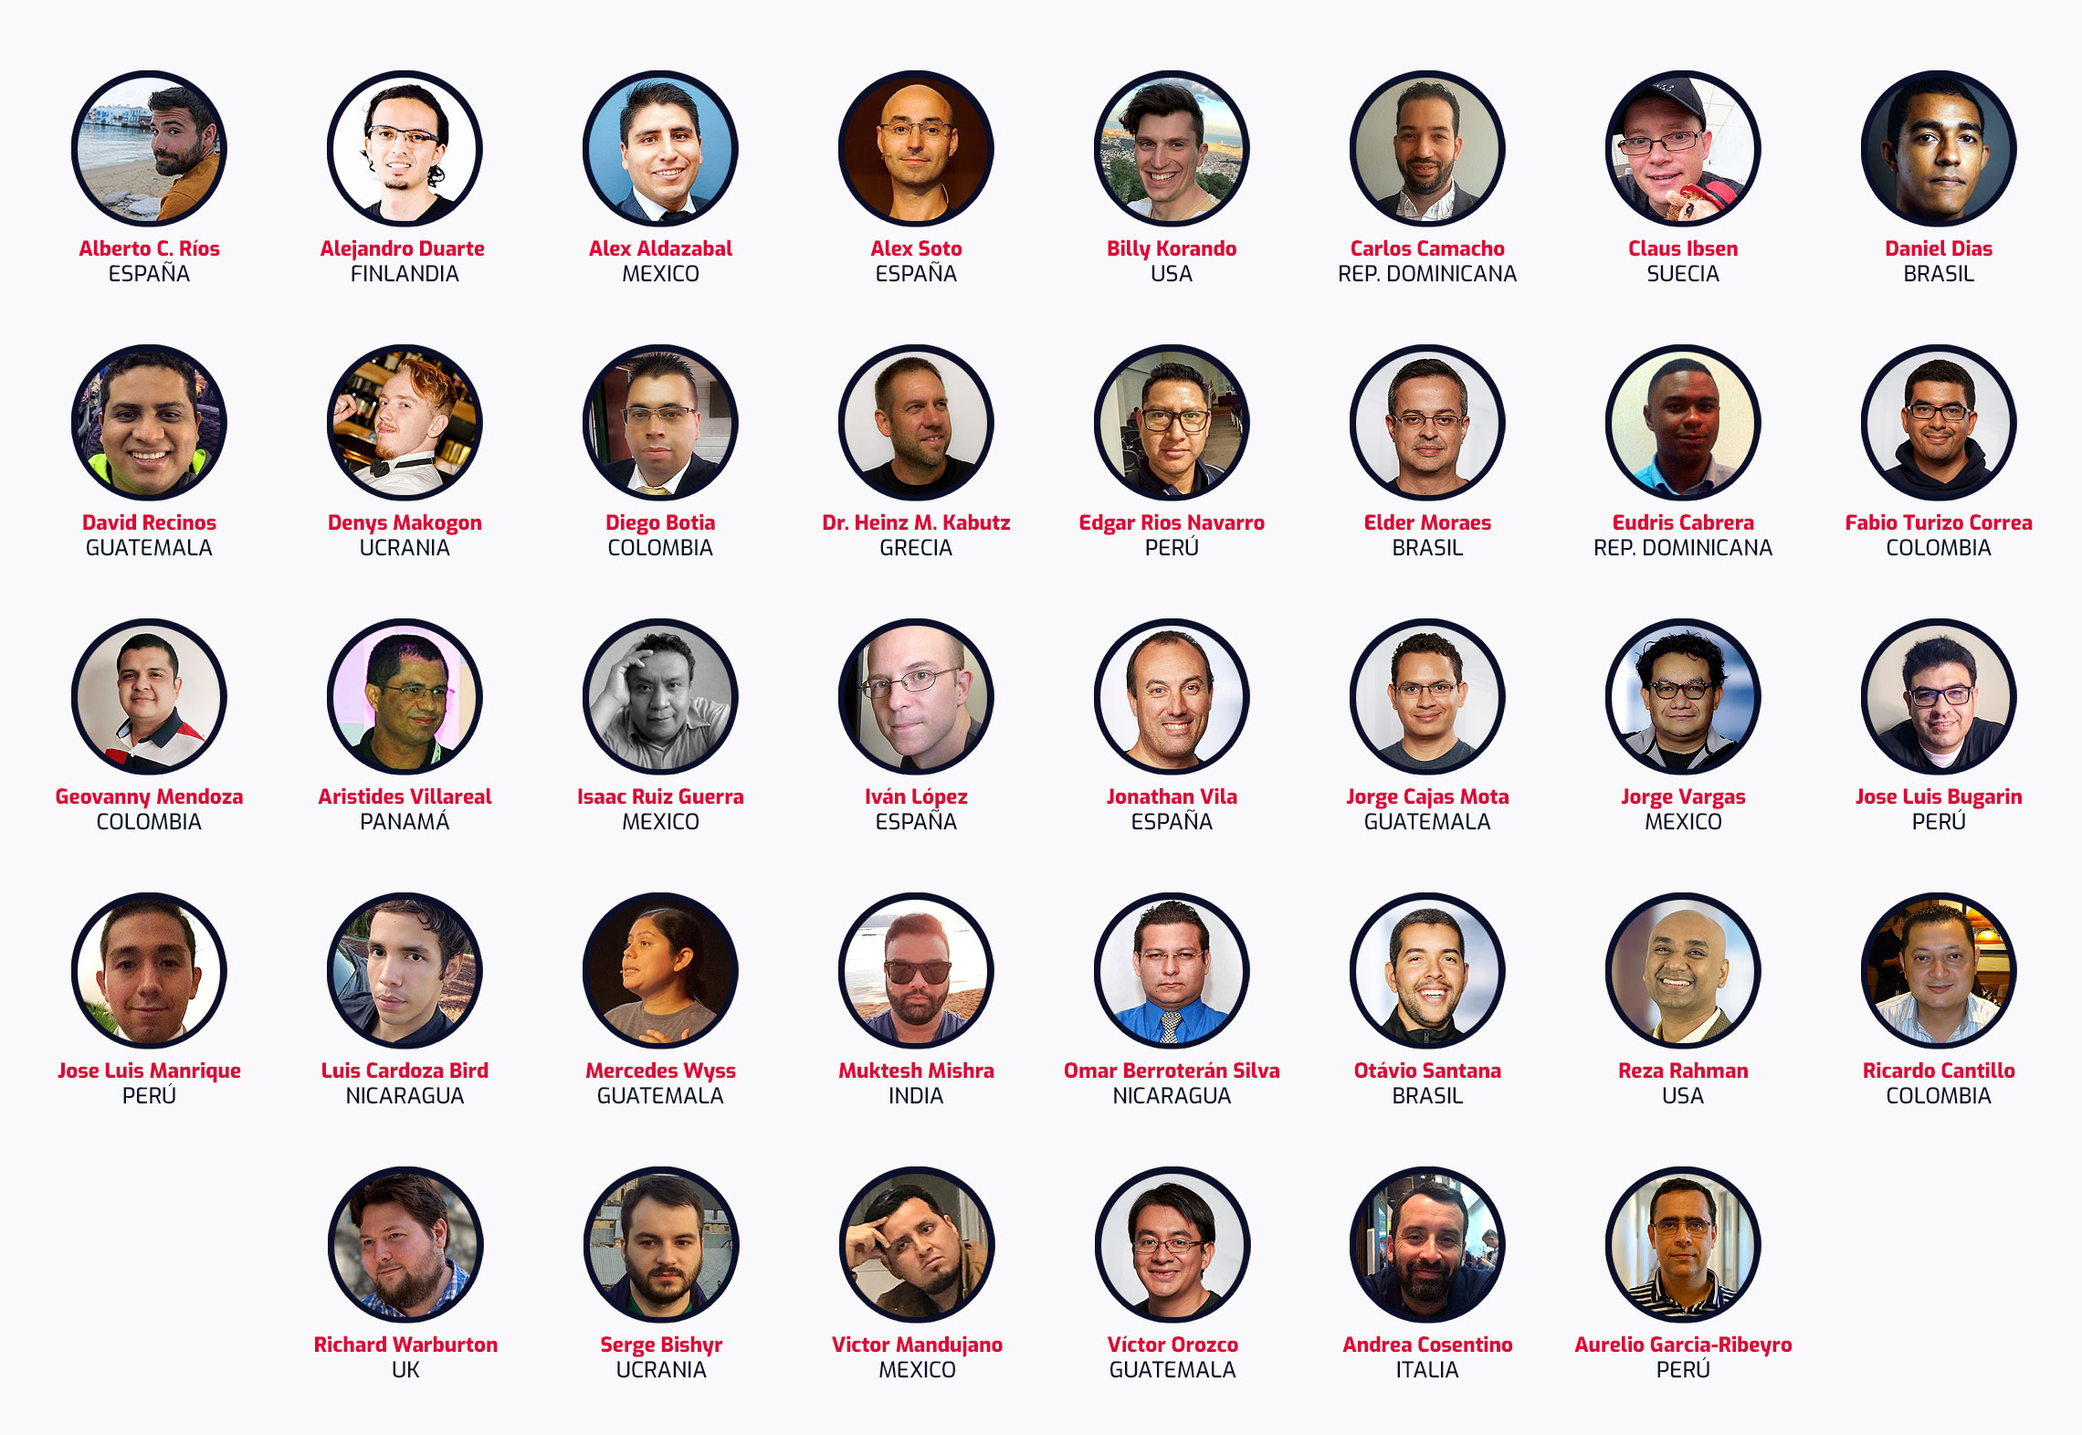
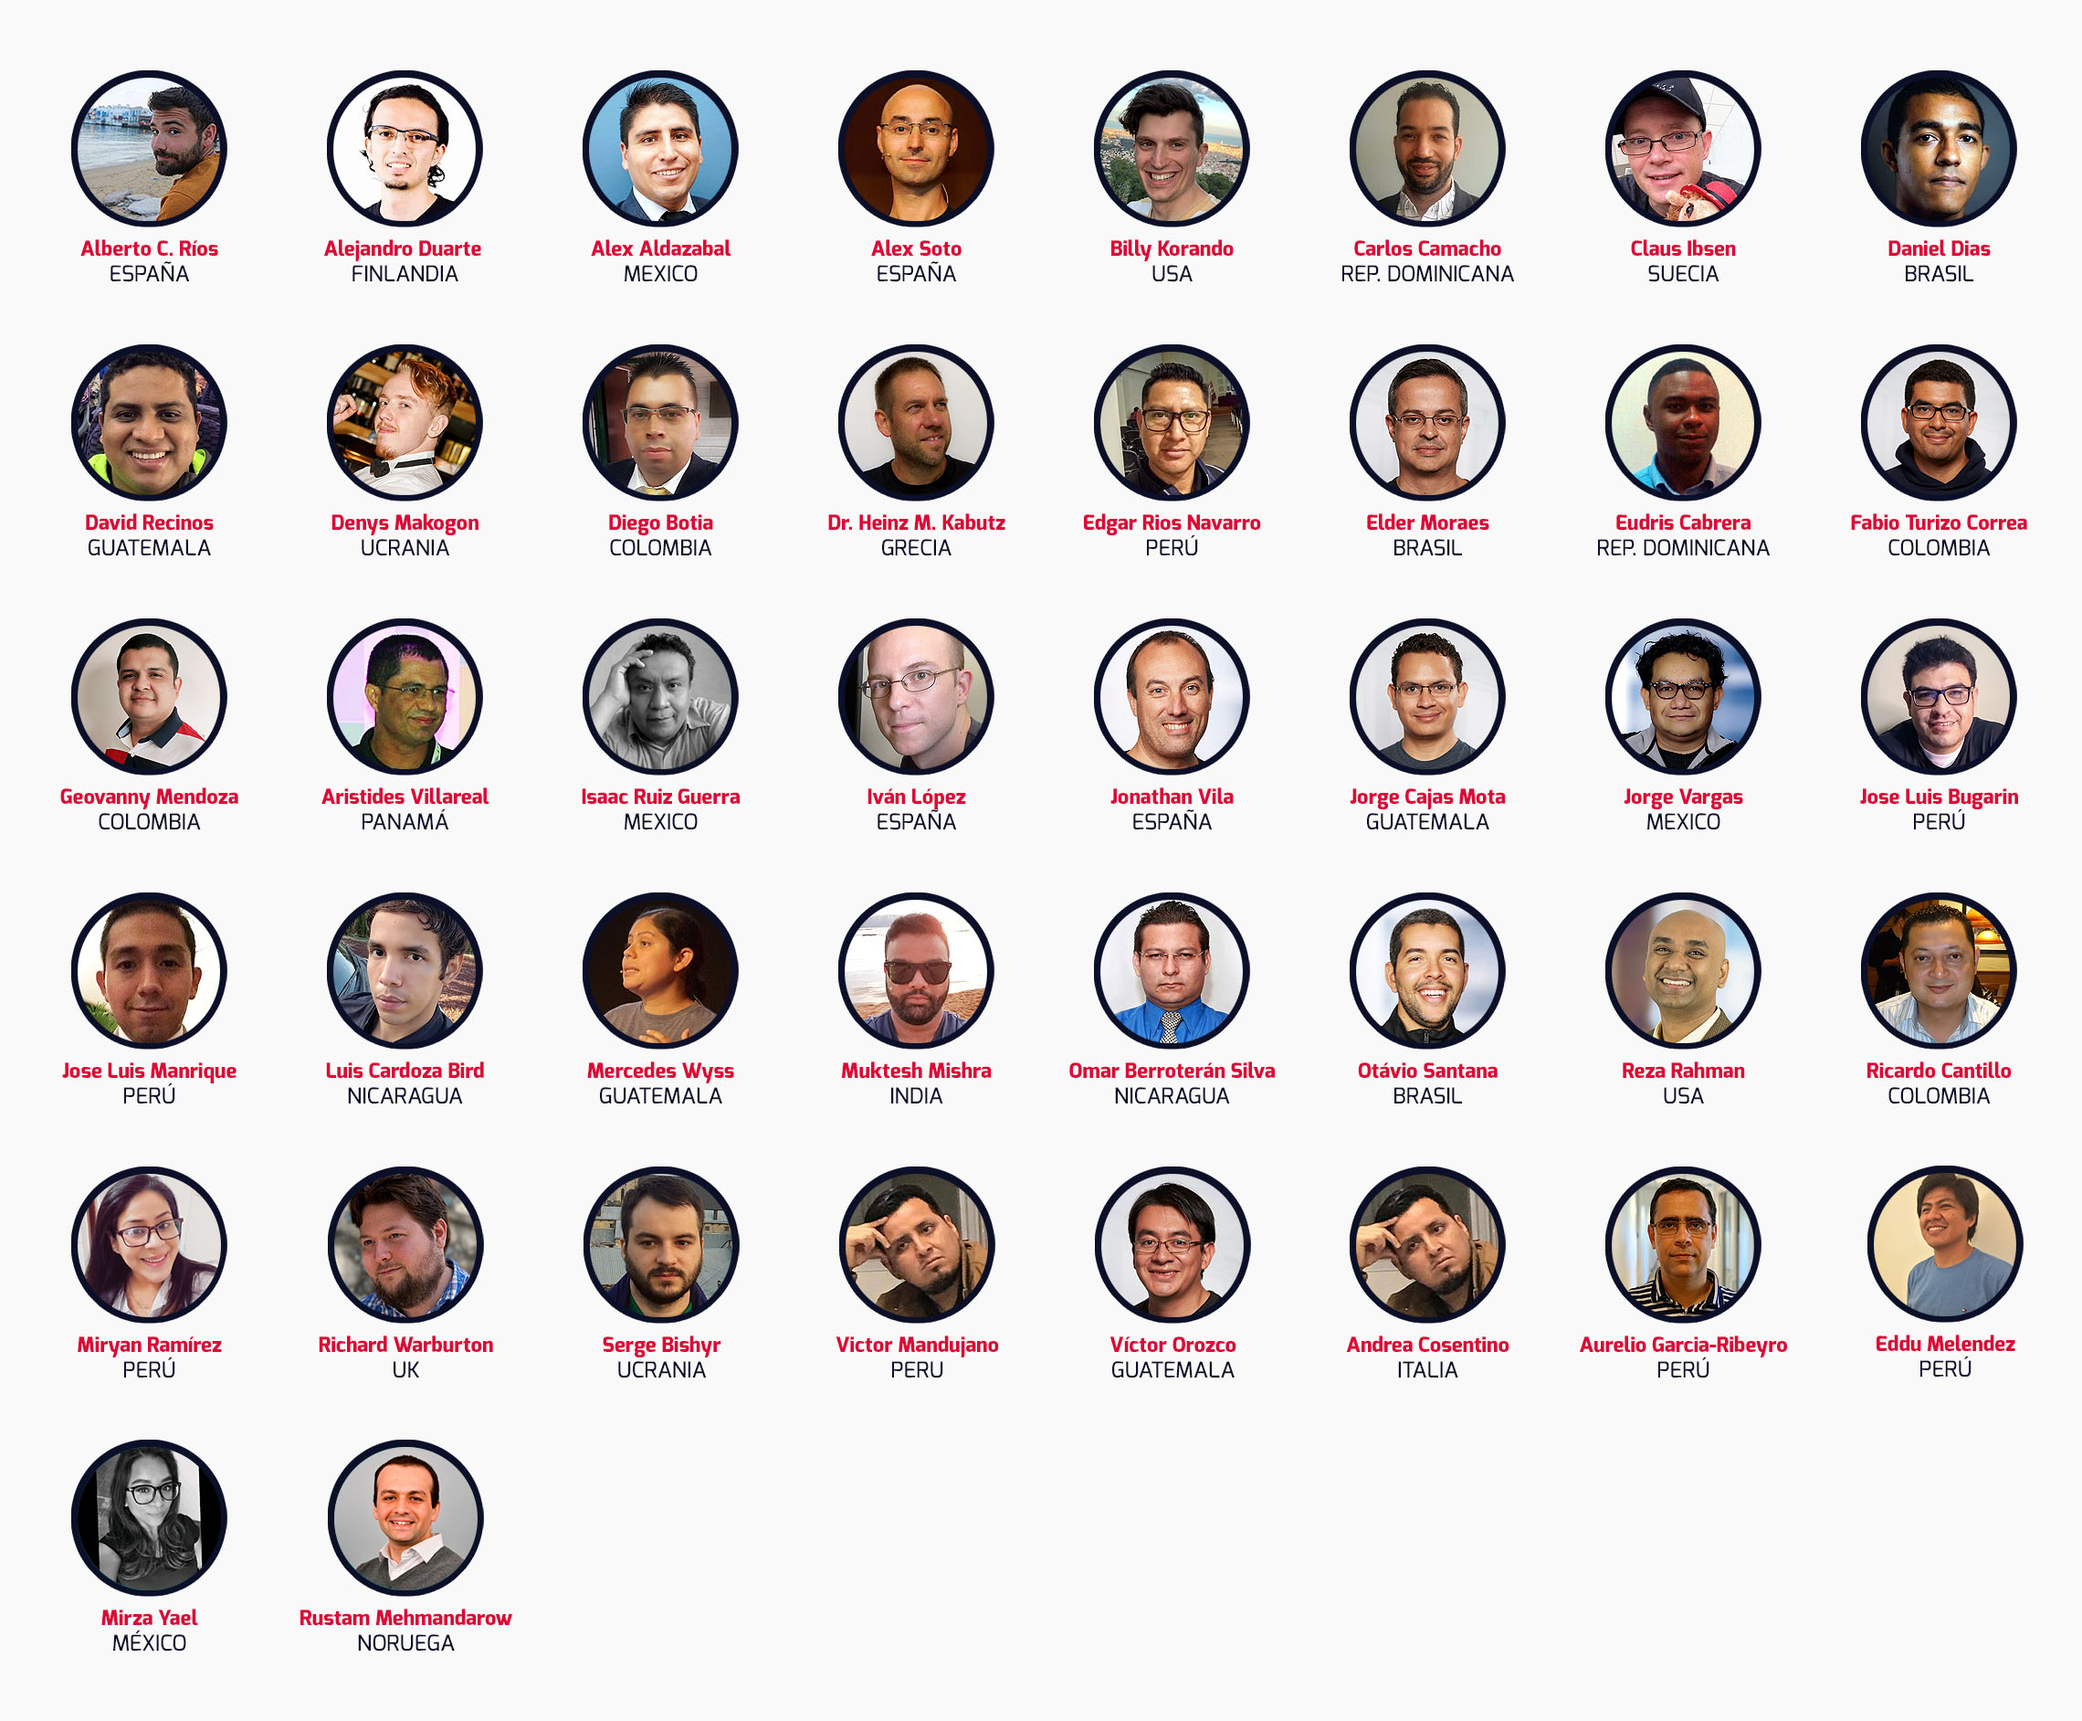
agenda actualizada y ultimos speakers

diff --git a/index.html b/index.html
@@ -645,7 +645,7 @@
       
       <div class="row speaker-row ">
         <!-- section title -->
-        <img class="banner-speakers" src="./images/speakers/2020/s_desktop2.jpg"/>
+        <img class="banner-speakers" src="./images/speakers/2020/s_desktop.jpg"/>
       </div>
 
     </div>
